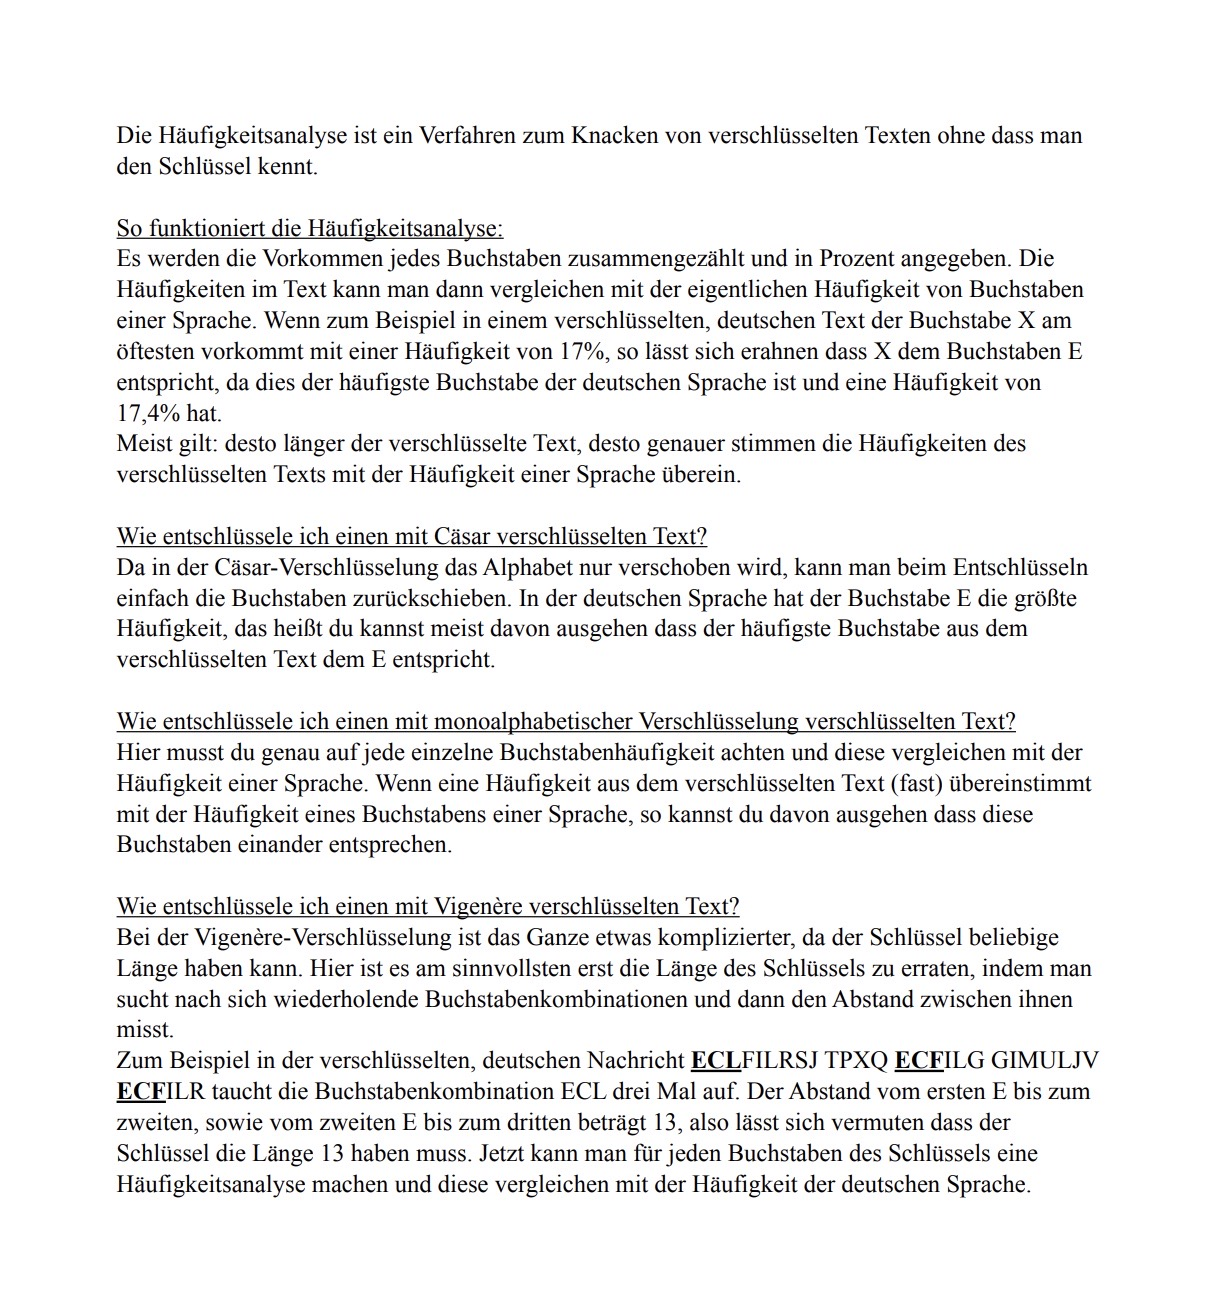
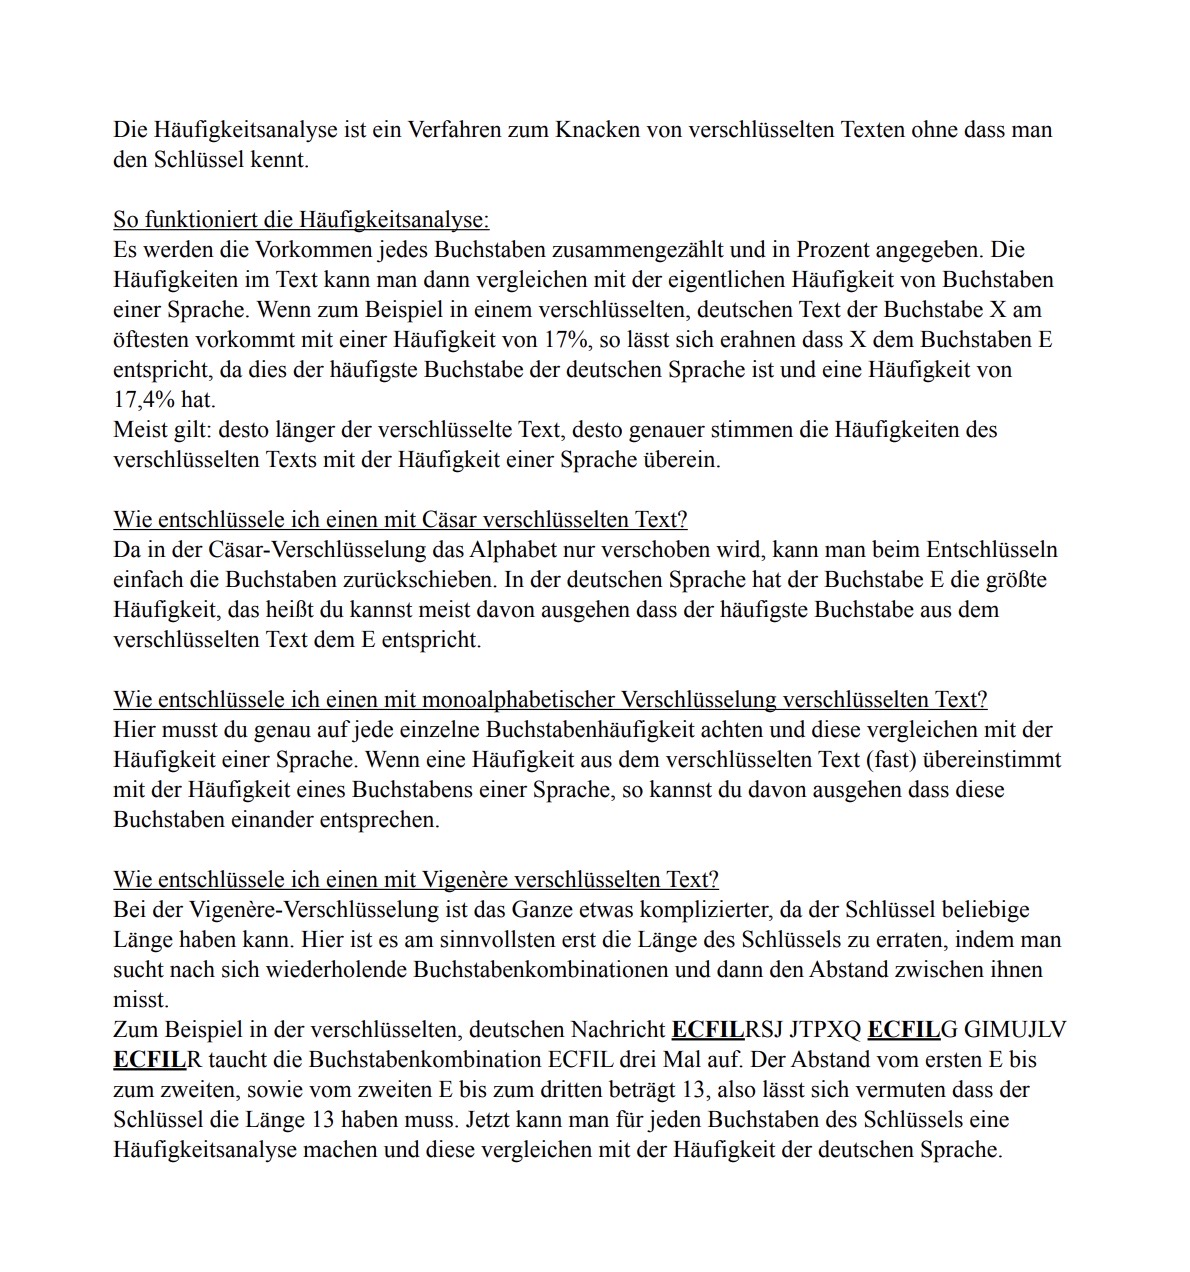
Fehler in Erklärung FA korrigiert und Fehlermeldung bei falschem Schlüssel angepasst

Changed region(s): [[0.0933, 0.3986, 0.9017, 0.9198], [0.0933, 0.092, 0.9017, 0.3679]]

diff --git a/CryptoCroc/src/main/java/controller/KeyPanel.java b/CryptoCroc/src/main/java/controller/KeyPanel.java
@@ -190,7 +190,7 @@ public abstract class KeyPanel {
 				}
 			} else {
 				if (wrongKeyError % Utility.MAX_ERROR_MESSAGES == 1) {
-					Messages.errorMessage("Der eingegebene Schl\u00fcssel ist nicht korrekt.");
+					Messages.errorMessage("Der Schl\u00fcssel ist nicht g\u00fcltig.");
 				}
 				wrongKeyError++;
 			}
